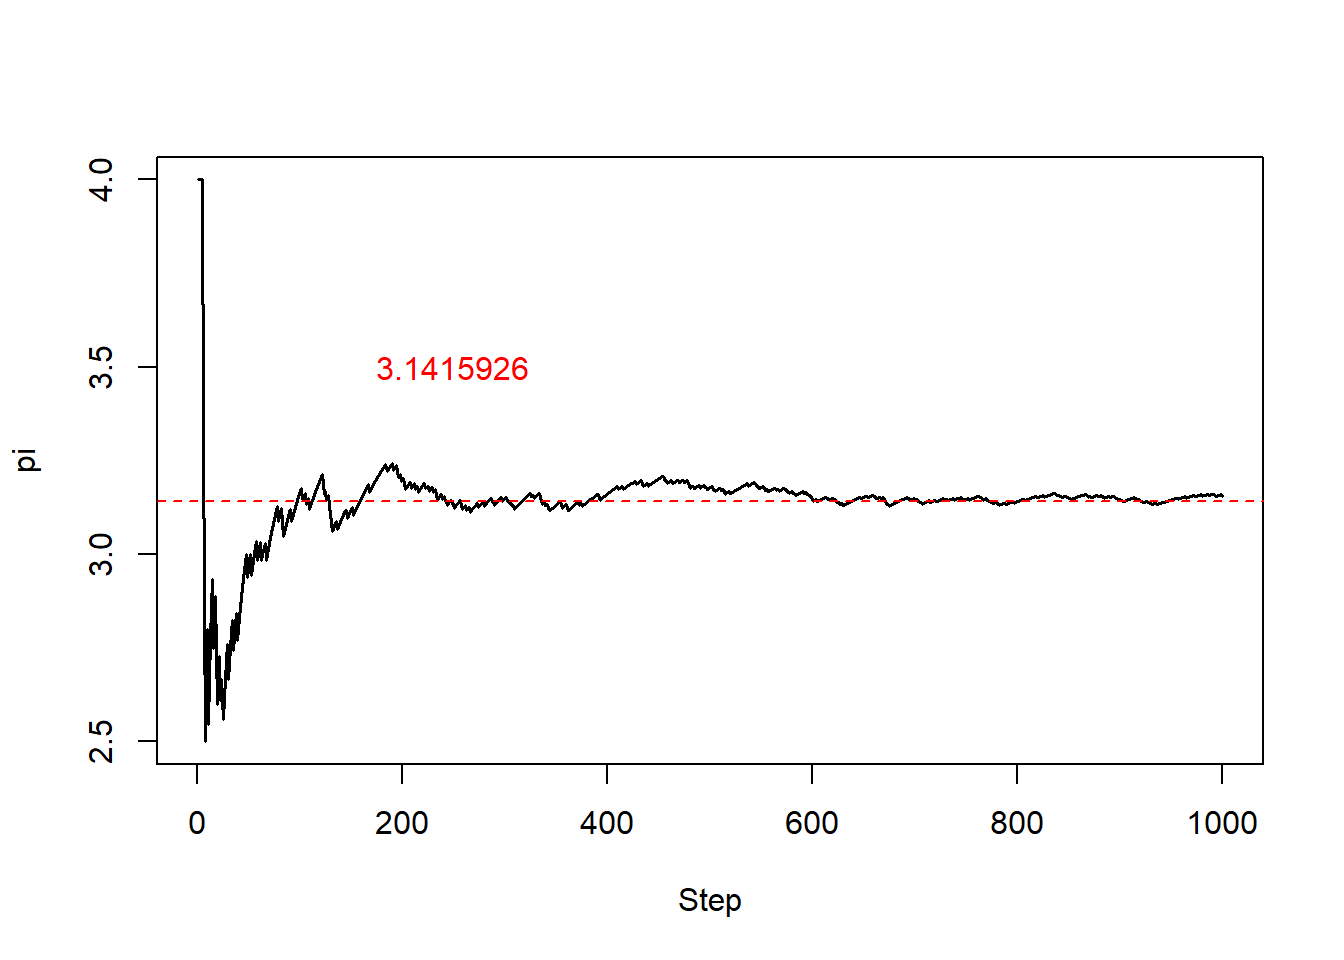
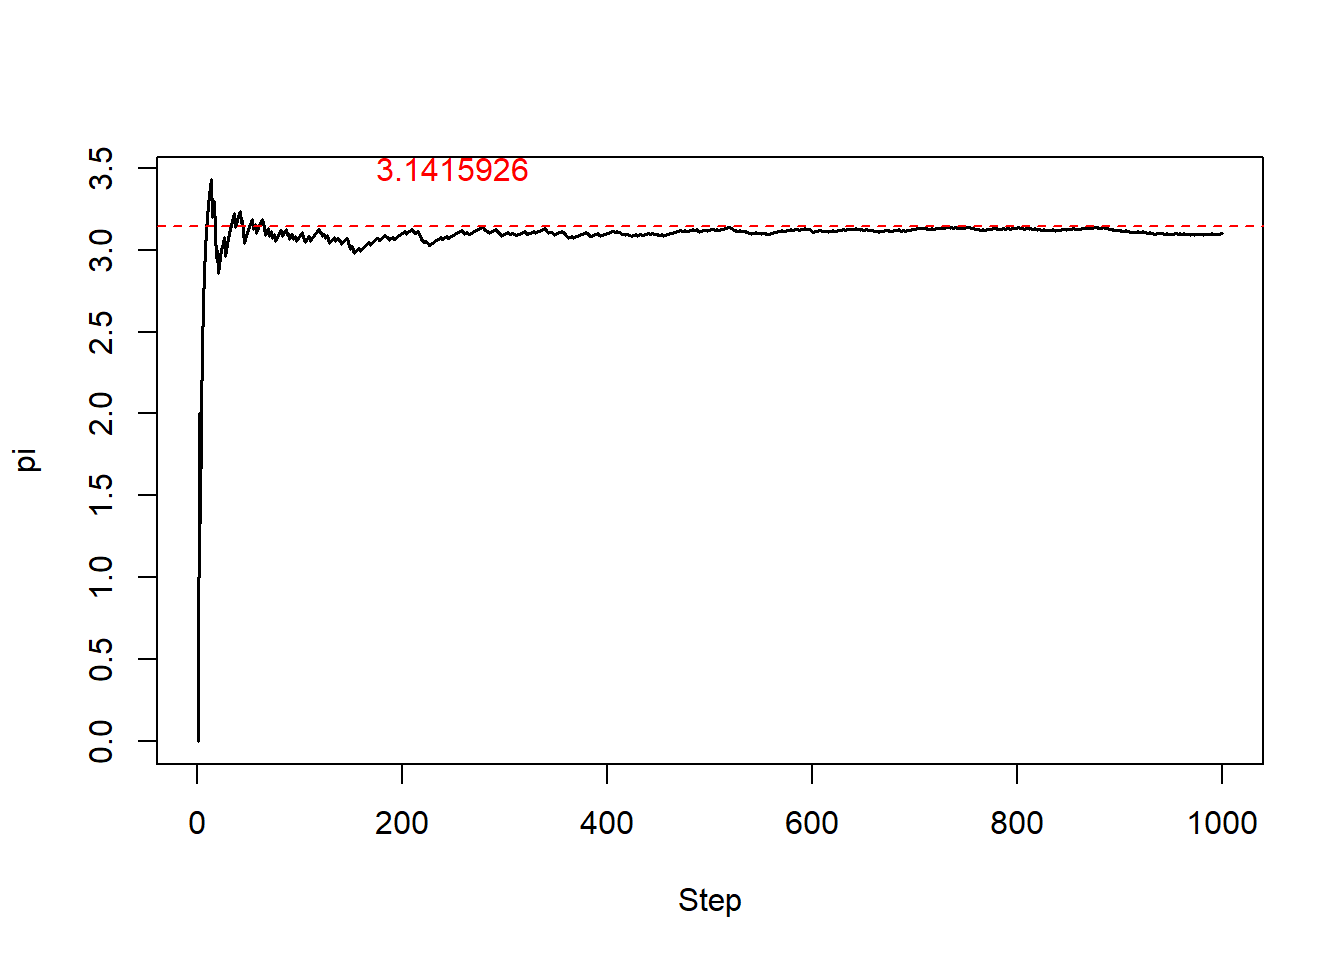
Add S01

diff --git a/docs/Section_01.html b/docs/Section_01.html
@@ -453,35 +453,7 @@ div.tocify {
     Resource
   </a>
 </li>
-<li class="dropdown">
-  <a href="#" class="dropdown-toggle" data-toggle="dropdown" role="button" aria-expanded="false">
-    <span class="fa fa-laptop"></span>
-     
-    Assignments
-     
-    <span class="caret"></span>
-  </a>
-  <ul class="dropdown-menu" role="menu">
-    <li>
-      <a href="Assignment_01.html">Assignment 01</a>
-    </li>
-    <li>
-      <a href="Assignment_02.html">Assignment 02</a>
-    </li>
-    <li>
-      <a href="Assignment_03.html">Assignment 03</a>
-    </li>
-    <li>
-      <a href="Assignment_04.html">Assignment 04</a>
-    </li>
-    <li>
-      <a href="Assignment_05.html">Assignment 05</a>
-    </li>
-    <li>
-      <a href="Assignment_06.html">Assignment 06</a>
-    </li>
-  </ul>
-</li>
+<li class="dropdown-header">Assignments</li>
       </ul>
       <ul class="nav navbar-nav navbar-right">
         
@@ -738,7 +710,7 @@ Hopefully, this course will make your life easier when it comes to interpret and
 <span id="cb2-7"><a href="#cb2-7"></a><span class="kw">text</span>(<span class="fl">0.25</span><span class="op">*</span>TotalDraw,<span class="fl">3.5</span>,<span class="st">&quot;3.1415926&quot;</span>,<span class="dt">cex=</span><span class="dv">1</span>,<span class="dt">col=</span><span class="st">&quot;red&quot;</span>)</span></code></pre></div>
 <p><img src="Section_01_files/figure-html/unnamed-chunk-2-1.png" width="672" /></p>
 <div class="sourceCode" id="cb3"><pre class="sourceCode r"><code class="sourceCode r"><span id="cb3-1"><a href="#cb3-1"></a><span class="kw">print</span>(<span class="kw">paste</span>(<span class="st">&quot;Mean Pi from the last 100 steps is: &quot;</span>,<span class="kw">mean</span>(Results[TotalDraw<span class="dv">-99</span><span class="op">:</span>TotalDraw])))</span></code></pre></div>
-<pre><code>## [1] &quot;Mean Pi from the last 100 steps is:  3.1370763231151&quot;</code></pre>
+<pre><code>## [1] &quot;Mean Pi from the last 100 steps is:  3.09740923220704&quot;</code></pre>
 <p>Simulation with 100,000 random points yields a better result</p>
 <div class="sourceCode" id="cb5"><pre class="sourceCode r"><code class="sourceCode r"><span id="cb5-1"><a href="#cb5-1"></a><span class="co"># Draw 1E5 points</span></span>
 <span id="cb5-2"><a href="#cb5-2"></a>TotalDraw &lt;-<span class="st"> </span><span class="fl">1E5</span></span>
@@ -749,7 +721,7 @@ Hopefully, this course will make your life easier when it comes to interpret and
 <span id="cb5-7"><a href="#cb5-7"></a><span class="kw">text</span>(<span class="fl">0.25</span><span class="op">*</span>TotalDraw,<span class="fl">3.5</span>,<span class="st">&quot;3.1415926&quot;</span>,<span class="dt">cex=</span><span class="dv">1</span>,<span class="dt">col=</span><span class="st">&quot;red&quot;</span>)</span></code></pre></div>
 <p><img src="Section_01_files/figure-html/unnamed-chunk-3-1.png" width="672" /></p>
 <div class="sourceCode" id="cb6"><pre class="sourceCode r"><code class="sourceCode r"><span id="cb6-1"><a href="#cb6-1"></a><span class="kw">print</span>(<span class="kw">paste</span>(<span class="st">&quot;Mean Pi from the last 100 steps is: &quot;</span>,<span class="kw">mean</span>(Results[TotalDraw<span class="dv">-99</span><span class="op">:</span>TotalDraw])))</span></code></pre></div>
-<pre><code>## [1] &quot;Mean Pi from the last 100 steps is:  3.15101865260437&quot;</code></pre>
+<pre><code>## [1] &quot;Mean Pi from the last 100 steps is:  3.12844585631274&quot;</code></pre>
 <hr />
 </div>
 </div>

diff --git a/docs/Schedule.html b/docs/Schedule.html
@@ -278,35 +278,7 @@ $(document).ready(function () {
     Resource
   </a>
 </li>
-<li class="dropdown">
-  <a href="#" class="dropdown-toggle" data-toggle="dropdown" role="button" aria-expanded="false">
-    <span class="fa fa-laptop"></span>
-     
-    Assignments
-     
-    <span class="caret"></span>
-  </a>
-  <ul class="dropdown-menu" role="menu">
-    <li>
-      <a href="Assignment_01.html">Assignment 01</a>
-    </li>
-    <li>
-      <a href="Assignment_02.html">Assignment 02</a>
-    </li>
-    <li>
-      <a href="Assignment_03.html">Assignment 03</a>
-    </li>
-    <li>
-      <a href="Assignment_04.html">Assignment 04</a>
-    </li>
-    <li>
-      <a href="Assignment_05.html">Assignment 05</a>
-    </li>
-    <li>
-      <a href="Assignment_06.html">Assignment 06</a>
-    </li>
-  </ul>
-</li>
+<li class="dropdown-header">Assignments</li>
       </ul>
       <ul class="nav navbar-nav navbar-right">
         
@@ -345,7 +317,7 @@ Tuesday (odd week only) / Thursday, 19:00-21:00</p>
 <td align="center">1</td>
 <td align="center">09/08</td>
 <td align="center">W.</td>
-<td align="left">Section 01 Introduction</td>
+<td align="left"><a href="https://zhu-group.github.io/ese5023/Section_01.html">Section 01 Introduction</a></td>
 <td align="center"></td>
 <td align="center"></td>
 </tr>

diff --git a/docs/Syllabus.html b/docs/Syllabus.html
@@ -280,35 +280,7 @@ $(document).ready(function () {
     Resource
   </a>
 </li>
-<li class="dropdown">
-  <a href="#" class="dropdown-toggle" data-toggle="dropdown" role="button" aria-expanded="false">
-    <span class="fa fa-laptop"></span>
-     
-    Assignments
-     
-    <span class="caret"></span>
-  </a>
-  <ul class="dropdown-menu" role="menu">
-    <li>
-      <a href="Assignment_01.html">Assignment 01</a>
-    </li>
-    <li>
-      <a href="Assignment_02.html">Assignment 02</a>
-    </li>
-    <li>
-      <a href="Assignment_03.html">Assignment 03</a>
-    </li>
-    <li>
-      <a href="Assignment_04.html">Assignment 04</a>
-    </li>
-    <li>
-      <a href="Assignment_05.html">Assignment 05</a>
-    </li>
-    <li>
-      <a href="Assignment_06.html">Assignment 06</a>
-    </li>
-  </ul>
-</li>
+<li class="dropdown-header">Assignments</li>
       </ul>
       <ul class="nav navbar-nav navbar-right">
         

diff --git a/docs/index.html b/docs/index.html
@@ -280,35 +280,7 @@ $(document).ready(function () {
     Resource
   </a>
 </li>
-<li class="dropdown">
-  <a href="#" class="dropdown-toggle" data-toggle="dropdown" role="button" aria-expanded="false">
-    <span class="fa fa-laptop"></span>
-     
-    Assignments
-     
-    <span class="caret"></span>
-  </a>
-  <ul class="dropdown-menu" role="menu">
-    <li>
-      <a href="Assignment_01.html">Assignment 01</a>
-    </li>
-    <li>
-      <a href="Assignment_02.html">Assignment 02</a>
-    </li>
-    <li>
-      <a href="Assignment_03.html">Assignment 03</a>
-    </li>
-    <li>
-      <a href="Assignment_04.html">Assignment 04</a>
-    </li>
-    <li>
-      <a href="Assignment_05.html">Assignment 05</a>
-    </li>
-    <li>
-      <a href="Assignment_06.html">Assignment 06</a>
-    </li>
-  </ul>
-</li>
+<li class="dropdown-header">Assignments</li>
       </ul>
       <ul class="nav navbar-nav navbar-right">
         

diff --git a/docs/Resource.html b/docs/Resource.html
@@ -360,35 +360,7 @@ div.tocify {
     Resource
   </a>
 </li>
-<li class="dropdown">
-  <a href="#" class="dropdown-toggle" data-toggle="dropdown" role="button" aria-expanded="false">
-    <span class="fa fa-laptop"></span>
-     
-    Assignments
-     
-    <span class="caret"></span>
-  </a>
-  <ul class="dropdown-menu" role="menu">
-    <li>
-      <a href="Assignment_01.html">Assignment 01</a>
-    </li>
-    <li>
-      <a href="Assignment_02.html">Assignment 02</a>
-    </li>
-    <li>
-      <a href="Assignment_03.html">Assignment 03</a>
-    </li>
-    <li>
-      <a href="Assignment_04.html">Assignment 04</a>
-    </li>
-    <li>
-      <a href="Assignment_05.html">Assignment 05</a>
-    </li>
-    <li>
-      <a href="Assignment_06.html">Assignment 06</a>
-    </li>
-  </ul>
-</li>
+<li class="dropdown-header">Assignments</li>
       </ul>
       <ul class="nav navbar-nav navbar-right">
         
